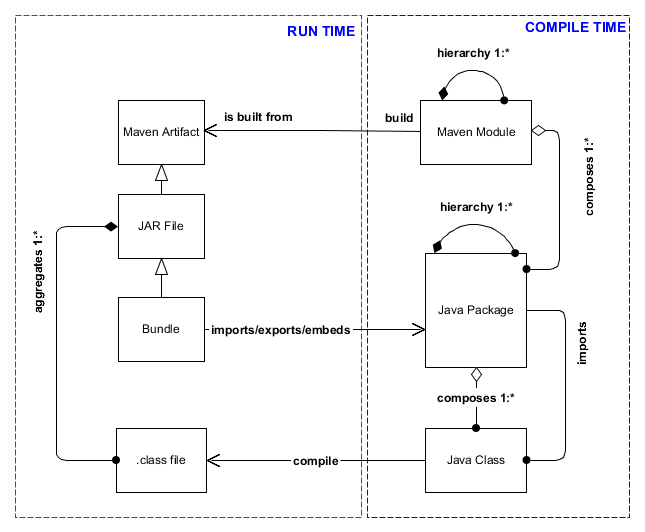
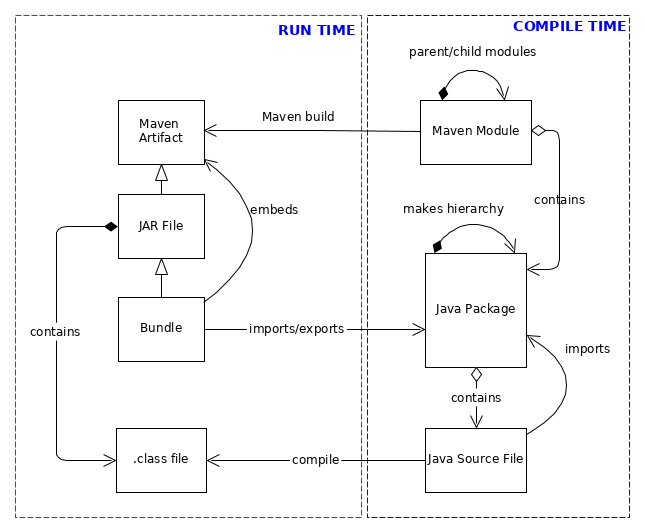
Minor fixes. Changes to modularity diagram.

diff --git a/01-bundle/karaf-commands.md b/01-bundle/karaf-commands.md
@@ -5,8 +5,12 @@
 2. `bundle:install file:/{bundle_folder}/{filename}`
 3. (Copy the JAR file to Karaf's `deploy` directory)
 
-- Preferred method installation is with the maven address because you can use `bundle:watch` to update the bundle (see below).
+- Preferred method installation is with the maven address because you can use `bundle:watch` to
+ update the bundle (see below).
 - When a bundle is installed it is copied to a cache and is always loaded from the cache. 
+- **The `restart` command always restarts the cached bundle**. To load something that is not in the 
+cache, the bundle has to be *updated* See the section "Updating Bundles". 
+
 
 #### Common bundle commands
 * `bundle:install <mavenUrls>`

diff --git a/01-bundle/bundles-overview.md b/01-bundle/bundles-overview.md
@@ -16,13 +16,14 @@ These constructs have a loose relationship to each other. If I had to draw a UML
 
 * JAR files are a kind of Maven artifact
 * Bundles are a kind of JAR file
-* Bundles can import, export, or embed packages
+* Bundles can import, export Java packages
+* Bundles can embed artifacts like JAR files
 * Maven builds modules into artifacts
 * Maven modules can contain multiple packages
 * Maven modules can be nested
 * Packages can import classes from other packages
-* Packages can be nested
-* Classes are .java files
+* Java source files are .java files
+* .class files are binary and contain the byte codes for the JVM
 * Classes belong to a package
 
 ## Bundle Lifecycle

diff --git a/01-bundle/README.md b/01-bundle/README.md
@@ -53,7 +53,7 @@ like _Bundle started!_ annd _Bundle stopped!_
 - Karaf comes with an OSGi runtime environment and a handy command-line-interface for interacting
 with bundles and services.
 - [Download the latest (stable) binary distribution of Apache Karaf](http://karaf.apache.org/download.html) and unzip it
-- Start Karaf
+- Start Karaf from the command line with the `bin/karaf` script. If you are on Windows, use the `karaf.bat` file. If you are on a Mac, you will probably need to make the `karaf script executable first. The command `chmod +x karaf` should change the permission on the file to executable.
 
 
 ### Install and start your bundle
